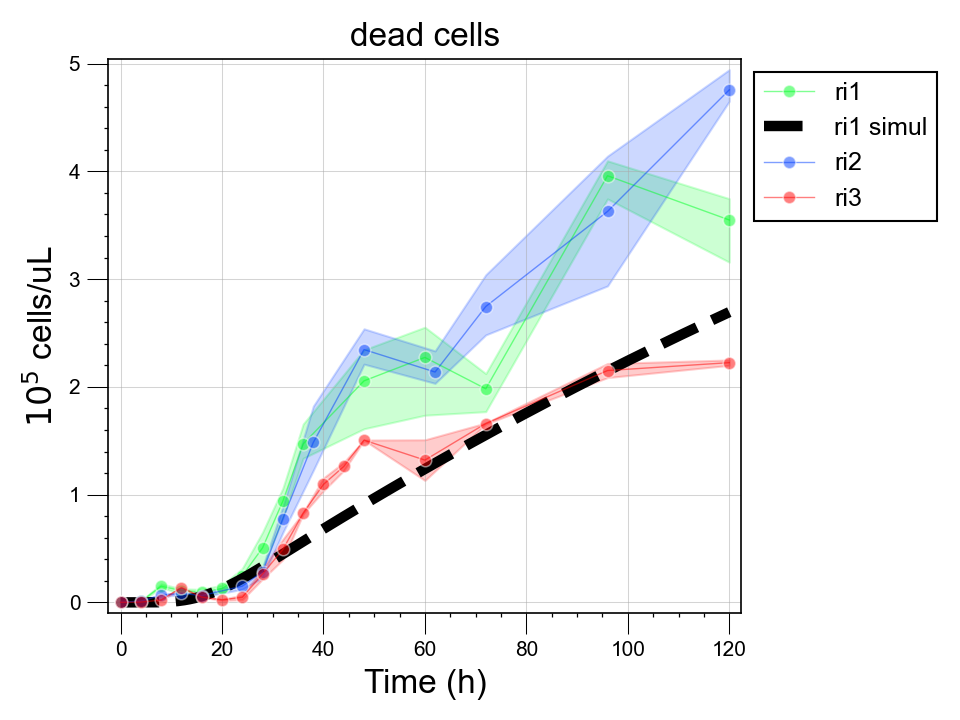
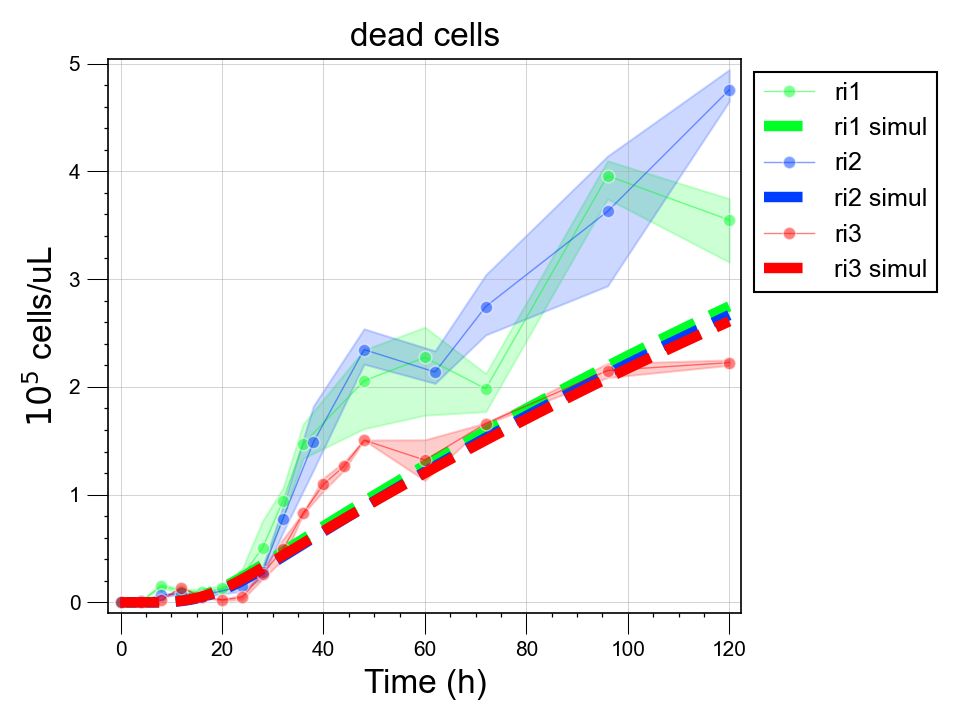
updates

diff --git a/scripts/compare2experiments/compareModel2States.py b/scripts/compare2experiments/compareModel2States.py
@@ -187,6 +187,90 @@ stTypes = ['cells',
 
 for i,v in enumerate(states):
     makeExperimentPlot(species, v, stTypes[i], experiments, labels, colors, simulObj = [bt1, bt2, bt3], alpha=0.5)
+    #plt.savefig(os.path.join(figPath, v + '_model.png'), dpi = 150)
+    #plt.savefig(os.path.join(figPath, 'logos', v + '_model.png'), dpi = 50)
+    plt.show()
+    
+####################################################################################
+
+species = 'ri'
+experiments = ['bhri', 'btri', 'bhbtri']
+labels = ['ri1', 'ri2', 'ri3']
+colors = ['#00ff26', '#003eff', '#ff0000']
+
+params = getPramsFromFile('ri', os.path.join(Path(os.getcwd()).parents[1], 'files', 'params', 'ri.tsv'))
+
+databaseName = 'modelDB_bhbtri_bh.sqlite3'
+
+databaseFolder =  os.path.join(Path(os.getcwd()).parents[1], 'files', 'dbs')
+
+database = os.path.join(databaseFolder, databaseName)
+
+conn = create_connection(os.path.join(databaseFolder, databaseName))
+assignRiParams(params, conn)
+
+
+
+
+
+
+measuredStates = ['live',
+          
+          'pyruvate',
+          'glucose',
+          'acetate',
+          'lactate',
+          'butyrate']
+
+ri1 = simulateExperiment('ri', 
+                       'bhri', 
+                       params, 
+                       database, 
+                       measuredStates, 
+                       combined=False, 
+                       intervals=None)
+
+ri2 = simulateExperiment('ri', 
+                       'btri', 
+                       params, 
+                       database, 
+                       measuredStates, 
+                       combined=False, 
+                       intervals=None)
+
+ri3 = simulateExperiment('ri', 
+                       'bhbtri', 
+                       params, 
+                       database, 
+                       measuredStates, 
+                       combined=False, 
+                       intervals=None)
+
+figPath = os.path.join(Path(os.getcwd()).parents[1], 'files', 'Figures', species+'Experiments')
+
+states = ['live',
+          'dead',
+          'pH',
+          
+          'pyruvate',
+          'glucose',
+          'acetate',
+          'lactate',
+          'butyrate']
+
+
+stTypes = ['cells',
+            'cells',
+            'pH',
+            'metabolite',
+            'metabolite',
+            'metabolite',
+            'metabolite',
+            'metabolite']
+
+
+for i,v in enumerate(states):
+    makeExperimentPlot(species, v, stTypes[i], experiments, labels, colors, simulObj = [ri1, ri2, ri3], alpha=0.5)
     plt.savefig(os.path.join(figPath, v + '_model.png'), dpi = 150)
     plt.savefig(os.path.join(figPath, 'logos', v + '_model.png'), dpi = 50)
     plt.show()
